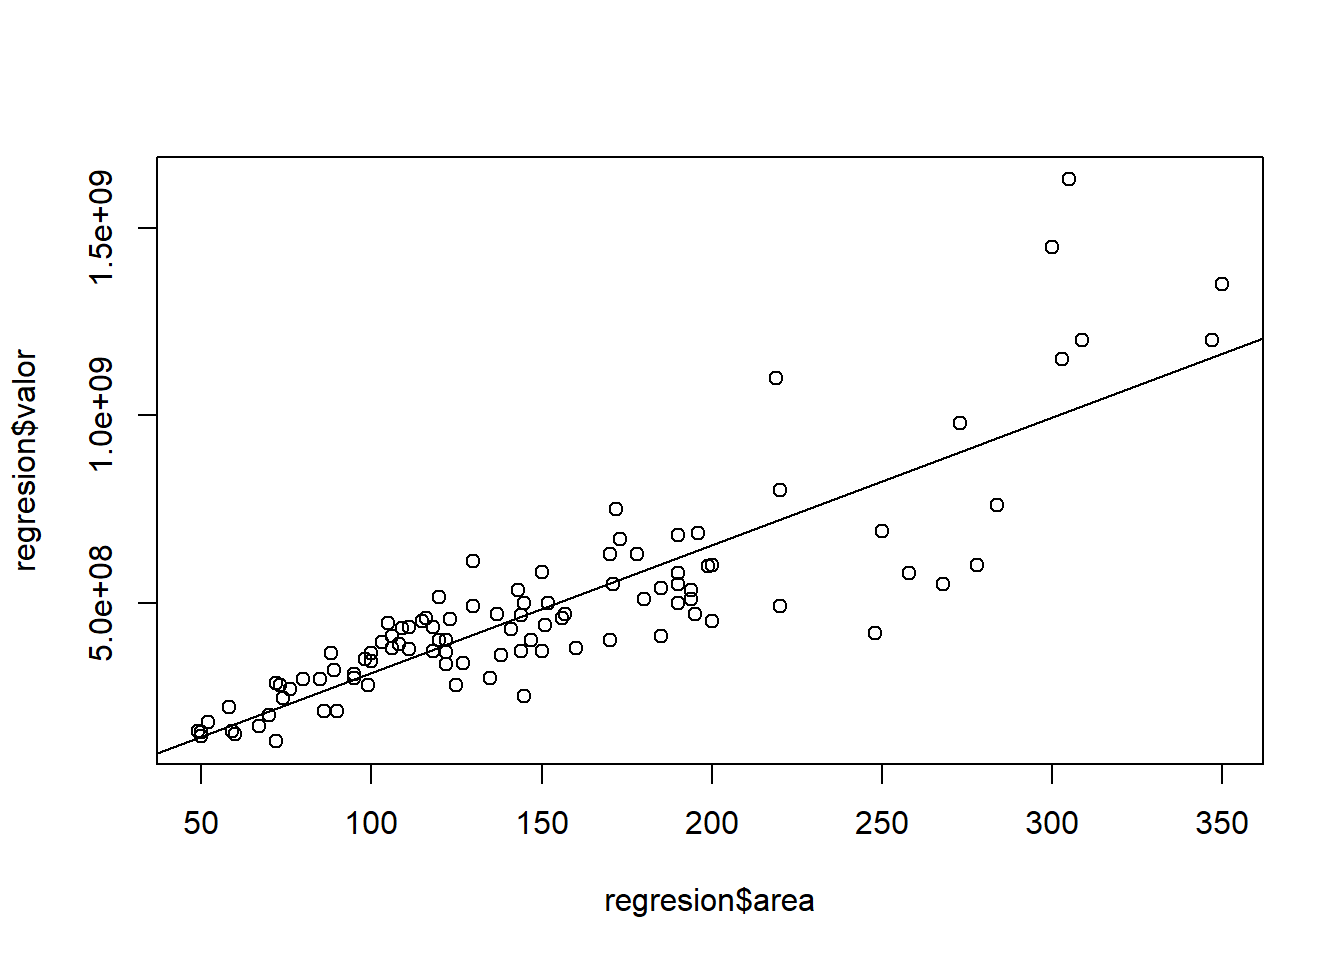
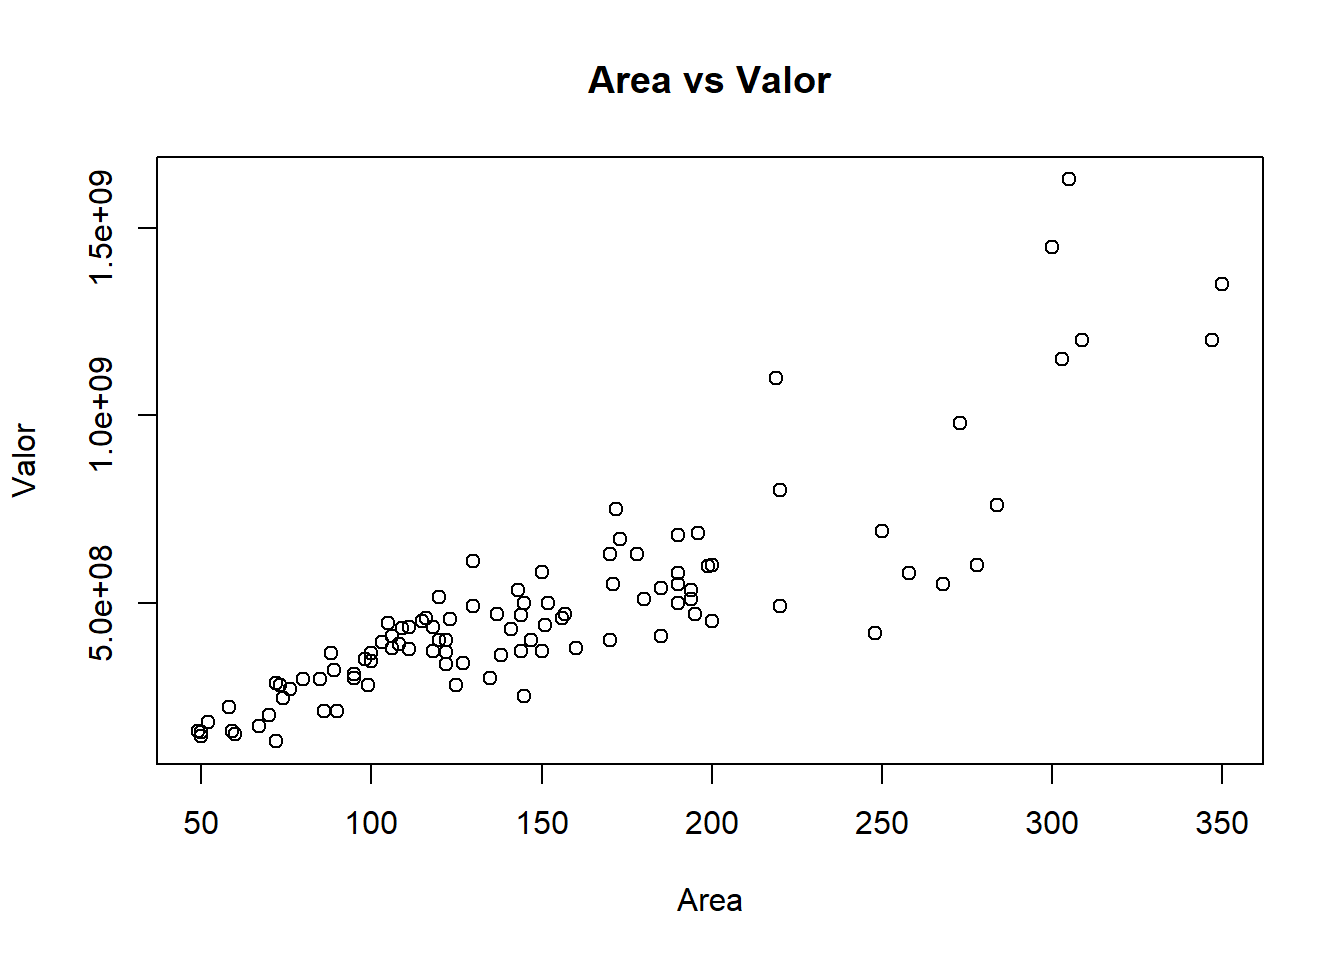
cambios en regresion

Changed region(s): [[0.4375, 0.9062, 0.625, 0.9688], [0.0, 0.375, 0.0312, 0.5938], [0.4375, 0.0625, 0.625, 0.0938]]

diff --git a/regresion.html b/regresion.html
@@ -225,6 +225,7 @@ $(document).ready(function () {
 ##  Mean   :4.855e+08   Mean   :150.5  
 ##  3rd Qu.:5.500e+08   3rd Qu.:190.0  
 ##  Max.   :1.630e+09   Max.   :350.0</code></pre>
+<p><img src="regresion_files/figure-html/unnamed-chunk-1-1.png" width="672" /></p>
 <pre><code>##           valor      area
 ## valor 1.0000000 0.8599923
 ## area  0.8599923 1.0000000</code></pre>
@@ -246,7 +247,27 @@ $(document).ready(function () {
 ## Residual standard error: 141600000 on 99 degrees of freedom
 ## Multiple R-squared:  0.7396, Adjusted R-squared:  0.737 
 ## F-statistic: 281.2 on 1 and 99 DF,  p-value: &lt; 2.2e-16</code></pre>
-<p><img src="regresion_files/figure-html/unnamed-chunk-1-1.png" width="672" /></p>
+<p><img src="regresion_files/figure-html/unnamed-chunk-1-2.png" width="672" /></p>
+<pre><code>##            1            2            3            4            5 
+##  -23403362.8     422519.7   24248402.2   48074284.7   71900167.2 
+##            6            7            8            9           10 
+##   95726049.7  119551932.2  143377814.7  167203697.2  191029579.7 
+##           11           12           13           14           15 
+##  214855462.2  238681344.7  262507227.2  286333109.7  310158992.2 
+##           16           17           18           19           20 
+##  333984874.7  357810757.2  381636639.7  405462522.2  429288404.7 
+##           21           22           23           24           25 
+##  453114287.2  476940169.7  500766052.2  524591934.7  548417817.2 
+##           26           27           28           29           30 
+##  572243699.7  596069582.2  619895464.7  643721347.2  667547229.7 
+##           31           32           33           34           35 
+##  691373112.2  715198994.6  739024877.1  762850759.6  786676642.1 
+##           36           37           38           39           40 
+##  810502524.6  834328407.1  858154289.6  881980172.1  905806054.6 
+##           41           42           43           44           45 
+##  929631937.1  953457819.6  977283702.1 1001109584.6 1024935467.1 
+##           46           47           48           49           50 
+## 1048761349.6 1072587232.1 1096413114.6 1120238997.1 1144064879.6</code></pre>
 </div>
 
 <br>
